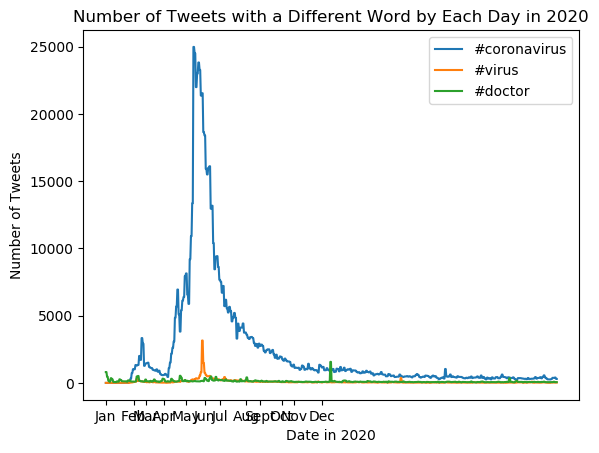
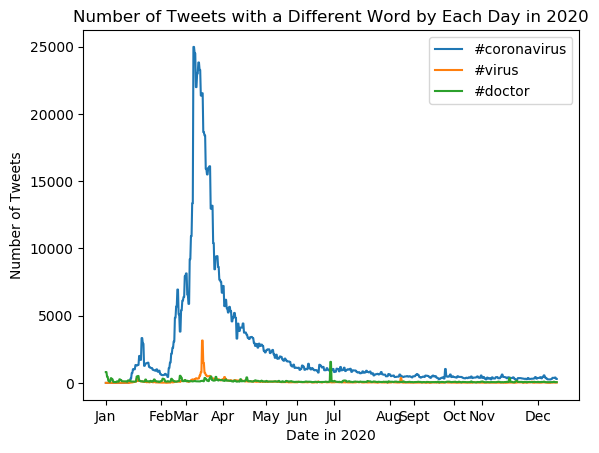
alternative done

Changed region(s): [[0.2104, 0.8962, 0.571, 0.9581], [0.6311, 0.8962, 0.8414, 0.9581], [0.8715, 0.8962, 0.9316, 0.9272]]

diff --git a/src/alternate_reduce.py b/src/alternate_reduce.py
@@ -33,5 +33,5 @@ plt.xlabel("Date in 2020")
 plt.ylabel("Number of Tweets")
 plt.title("Number of Tweets with a Different Word by Each Day in 2020")
 plt.legend()
-plt.xticks([0,45,65,95,130,160,185,228,250,285,305,350], ["Jan","Feb", "Mar", "Apr", "May", "Jun", "Jul","Aug", "Sept","Oct", "Nov", "Dec"])
+plt.xticks([0,90,130,190,260,310,370,460,500,565,610,700], ["Jan","Feb", "Mar", "Apr", "May", "Jun", "Jul","Aug", "Sept","Oct", "Nov", "Dec"])
 plt.savefig("myplot5.png",bbox_inches="tight")
